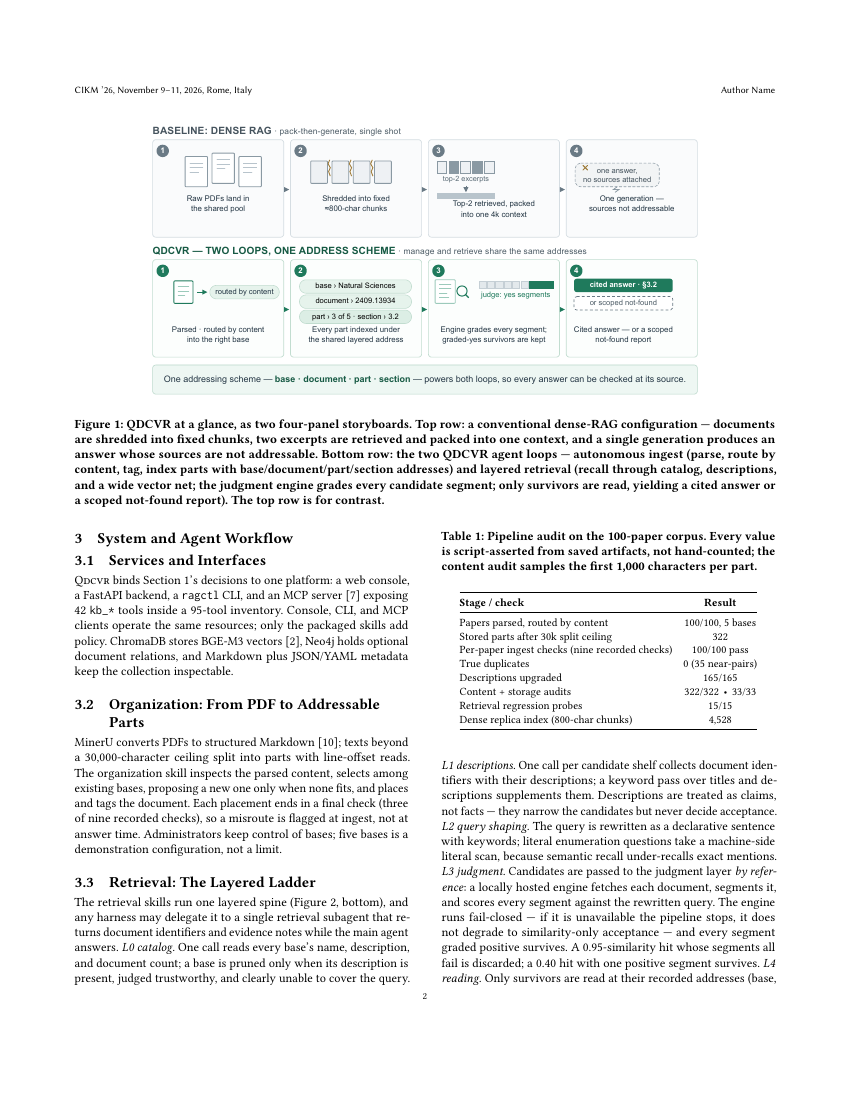
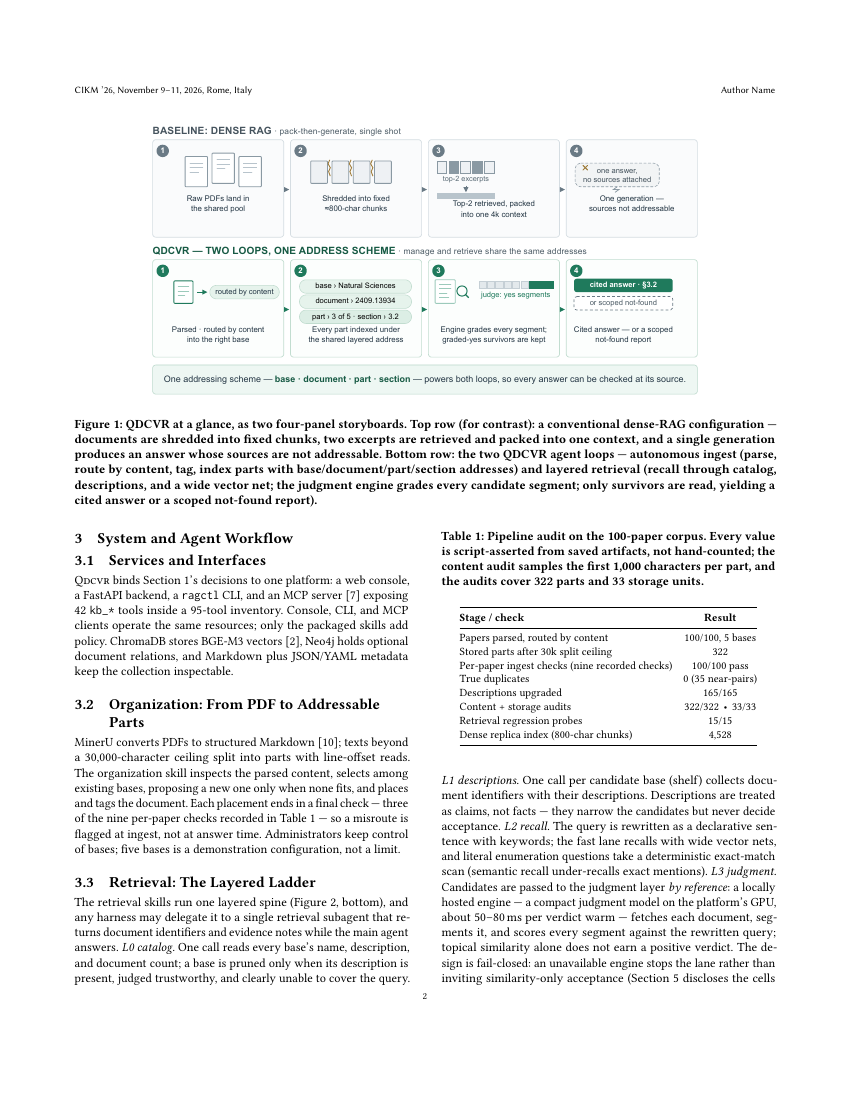
paper(demo): R3 fresh-panel revision - judgment engine concretized, contract honesty, editorial pass
- 3.3: judgment engine specified (compact local model on the platform GPU,
  ~50-80 ms per verdict warm; topical similarity alone does not earn a
  positive verdict); fail-closed softened from absolute to design intent
  with a pointer to the measured fallback cells
- 5: deviation disclosure - no engine call in 3 of 10 platform questions
  (confirmed by direct reads), read-fallbacks in 2 more (slow/unavailable
  engine); engine completed in the remaining 5
- demo: BQ04's second search corrected to keyword-metadata cross-check
  (kb_search, not the BM25 two-stage pass); "verbatim quotation" narrowed
  to the section title actually quoted; graded-path pointer re-anchored to
  panel 2 (BQ06)
- editorial round: intro/related-work repetition deduplicated; L2 renamed
  recall (reconciling the abstract's catalog/descriptions/recall triple
  with the L0-L5 rungs); shelf vs base terminology fixed; one-neutral-prompt
  contradiction resolved; ladder->librarian lane-name drift fixed; Table 1
  cited from its own section, 33/33 explained; abstract "with 1" fragment
  fixed; fig captions trimmed (stale bottom-strip reference removed,
  panel-2 bare-agent omission explained)
- layout: body (through Conclusion) still ends on page 4; references +
  GenAI disclosure on page 5 (5 pages total); 0 overfull, 0 undefined
- visual judge 5/5 pass on the final render

Changed region(s): [[0.52, 0.4945, 0.9176, 0.8964], [0.0918, 0.3709, 0.9176, 0.4636], [0.0918, 0.7109, 0.4894, 0.7727]]

diff --git a/paper_demo/tex/sec4_eval.tex b/paper_demo/tex/sec4_eval.tex
@@ -1,4 +1,4 @@
-% sec4_eval.tex — 2026-09-30 rewrite; compacted 2026-10-01.
+% sec4_eval.tex — 2026-09-30 rewrite; compacted 2026-10-01; R3 honesty fixes.
 % (1) monitored three-mode rerun on the current contract (run
 %     benchmark-suite/results/runs/run-20260930T150453Z-3ec2174; graded by
 %     scripts/107_exp_grade.py, audited by experiments/audit_paper_numbers.py);
@@ -7,55 +7,57 @@
 \label{sec:eval}
 
 \textbf{Setup.}
-The platform's own ingest loop built the corpus, so records exist for
-every stage (Table~\ref{tab:pipeline}). Ten fixed questions
+The ingest loop built the corpus, leaving records for every stage
+(Table~\ref{tab:pipeline}). Ten fixed questions
 (BQ01--BQ10), each answerable only from its
-designated paper, ran through three modes differing only in evidence
-route, permissions, and prompt framing (one harness, model, and neutral
-prompt): the platform answers via its fast lane over the kb\_* tools
-(Section~\ref{sec:ladder}); the bare agent is the same model with file
-tools over the exported papers; dense retrieval answers through a
-single vector-search tool over the 4{,}528-chunk replica
-(Table~\ref{tab:pipeline}).
-Metrics: \emph{grounded} (the trace cites the designated paper, strict
-arXiv-id); \emph{keyword-verified} ($\ge$60\% of fixed gold key
-facts at word boundaries); \emph{citations} (part/section/table
-markers in saved answers).
+designated paper, ran through three modes sharing one harness, one
+model, and one neutral prompt template, and differing only in the
+retrieval affordance and permissions: the platform answers through the
+full kb\_* read surface (Section~\ref{sec:ladder}); the bare agent is
+the same model with file tools over the exported papers; dense retrieval
+answers through a single vector-search tool over the 4{,}528-chunk
+replica (Table~\ref{tab:pipeline}).
+Metrics: \emph{grounded} (strict arXiv-id citation of the designated
+paper), \emph{keyword-verified} ($\ge$60\% of fixed gold key facts at
+word boundaries), \emph{cited} (part/section/table markers present).
 
 \textbf{Findings.}
 The platform grounds \NUMgroundedA/10 designated-paper answers and
 keyword-verifies \NUMkwA/10 --- a clean sweep under conservative grading;
-the bare agent grounds \NUMgroundedB/10 yet verifies \NUMkwB/10; dense
-retrieval grounds \NUMgroundedC/10 and verifies \NUMkwC/10 (both dense
-grounding misses were tool-availability aborts). Citations naming
-part, section, or table reach
+the bare agent grounds \NUMgroundedB/10 yet its verification rate trails
+(\NUMkwB/10); dense retrieval grounds \NUMgroundedC/10 and verifies
+\NUMkwC/10 (both dense grounding misses were tool-availability aborts).
+Citations naming part, section, or table reach
 \NUMciteA/10 versus \NUMciteB{} (bare) and \NUMciteC{} (dense)
 (Figure~\ref{fig:threeway}). The bare agent always locates the designated
-paper, yet its verification trails and its answers name files where the
-platform names checkable addresses: locating, synthesizing, and citing
-are different skills --- the split is this demo's design difference.
+paper, yet its answers name files where the platform names checkable
+addresses: locating, synthesizing, and citing are different skills ---
+the split this demo exists to show. We also record
+deviations: no engine call in three of ten questions (confirmed by
+direct reads), read-fallbacks after slow or unavailable engines in two
+more; the engine completed in the remaining five.
 
 \textbf{Honest failure and stability.}
-In a 27-run stability suite (found / not-covered / out-of-corpus tasks
---- attention, seismic-wave classification, pickle production ---
-$\times$ fast, ladder, and fusion lanes $\times$ three rounds) on the
-live multi-base instance, no run fabricated: the found task produced the
-correct attention formula in 9/9 runs; the not-covering task answered 9/9
-that the library holds no such content; the out-of-corpus task refused
-9/9, the librarian lane stopping at the catalog layer. Session-trace
-replay confirms 27/27 lane-contract compliance, with median wall-clock
-34--76\,s across cells
---- and three scripted out-of-corpus questions against the audited
-instance all receive scoped not-found reports (Section~\ref{sec:demo}
-shows one).
+In a 27-run stability suite --- three task types (answerable: an
+attention formula; not-covered: seismic-wave classification;
+out-of-corpus: a pickle request) $\times$ fast, librarian,
+and fusion lanes $\times$ three rounds --- on the live multi-base
+instance: the answerable task produced the correct attention formula in
+9/9 runs, the not-covered task answered 9/9 that the library holds no
+such content, and the out-of-corpus task refused 9/9 (the librarian
+lane stopping at the catalog layer). Session-trace replay confirms
+27/27 lane-contract compliance, with per-cell median wall-clock
+spanning 34--76\,s; three scripted out-of-corpus probes against the
+audited instance all return scoped not-found reports
+(Section~\ref{sec:demo} shows one).
 
 \textbf{Costs and limitations.}
-The platform is slowest (\NUMlatA{} per question versus
-\NUMlatB/{}\NUMlatC{} bare/dense) --- the gap buys multi-step reading
-and graded judgment --- but not costliest: \NUMcostA{} per question,
-about the bare agent's \NUMcostB{} and twice dense retrieval's
-\NUMcostC. Grading is conservative: word-boundary matching scores the
-bare agent's plural ``cathodes'' (BQ08) at zero. Two platform cells
-re-ran once after a harness timeout. Correctness calls are the authors'
-trace readings; cache state was uncontrolled; the suite's $\pm$35\,s
-variance sits in the answer-generation window.
+The platform is the slowest mode (\NUMlatA{} per question versus
+\NUMlatB{} bare and \NUMlatC{} dense), but the latency buys multi-step
+reading and graded judgment --- and it is not the costliest:
+\NUMcostA{} per question, about the bare agent's \NUMcostB{} and twice
+dense retrieval's \NUMcostC. Grading is conservative: word-boundary
+matching zeroes the bare agent's plural ``cathodes'' (BQ08). Two
+platform cells re-ran once after a harness timeout; correctness calls
+are the authors' trace readings, cache state was uncontrolled, and the
+suite's $\pm$35\,s variance sits in the answer-generation window.

diff --git a/paper_demo/tex/sec2_system.tex b/paper_demo/tex/sec2_system.tex
@@ -19,9 +19,10 @@ MinerU converts PDFs to structured Markdown~\cite{mineru}; texts
 beyond a 30,000-character ceiling split into parts with line-offset
 reads. The organization skill inspects the parsed
 content, selects among existing bases, proposing a new one only when
-none fits, and places and tags the document. Each placement ends in a final check (three of nine
-recorded checks), so a misroute is flagged at ingest, not at answer
-time. Administrators keep
+none fits, and places and tags the document. Each placement ends in a
+final check --- three of the nine per-paper checks recorded in
+Table~\ref{tab:pipeline} --- so a misroute is flagged at ingest, not at
+answer time. Administrators keep
 control of bases; five bases is a demonstration configuration, not a
 limit.
 
@@ -30,7 +31,8 @@ limit.
 \begin{table}[t]
 \caption{Pipeline audit on the 100-paper corpus. Every value is
 script-asserted from saved artifacts, not hand-counted; the content audit
-samples the first 1{,}000 characters per part.}
+samples the first 1{,}000 characters per part, and the audits cover 322
+parts and 33 storage units.}
 \label{tab:pipeline}
 \small
 \setlength{\tabcolsep}{4pt}
@@ -59,19 +61,23 @@ answers.
 \emph{L0 catalog.} One call reads every base's name, description, and
 document count; a base is pruned only when its description is present,
 judged trustworthy, and clearly unable to cover the query.
-\emph{L1 descriptions.} One call per candidate shelf collects document
-identifiers with their descriptions; a keyword pass over titles and
-descriptions supplements them. Descriptions are treated as claims, not
-facts --- they narrow the candidates but never decide acceptance.
-\emph{L2 query shaping.} The query is rewritten as a declarative
-sentence with keywords; literal enumeration questions take a machine-side
-literal scan, because semantic recall under-recalls exact mentions.
+\emph{L1 descriptions.} One call per candidate base (shelf) collects
+document identifiers with their descriptions. Descriptions are treated
+as claims, not facts --- they narrow the candidates but never decide
+acceptance.
+\emph{L2 recall.} The query is rewritten as a declarative sentence with
+keywords; the fast lane recalls with wide vector nets, and literal
+enumeration questions take a deterministic exact-match scan (semantic
+recall under-recalls exact mentions).
 \emph{L3 judgment.} Candidates are passed to the judgment layer \emph{by
-reference}: a locally hosted engine fetches each document, segments it,
-and scores every segment against the rewritten query. The engine runs
-fail-closed --- if it is unavailable the pipeline stops, it does not
-degrade to similarity-only acceptance --- and every segment graded
-positive survives. A
+reference}: a locally hosted engine --- a compact judgment model on the
+platform's GPU, about 50--80\,ms per verdict warm --- fetches
+each document, segments it, and scores every segment against the
+rewritten query; topical similarity alone does not earn a positive
+verdict. The design is fail-closed: an unavailable engine stops the lane
+rather than inviting similarity-only acceptance
+(Section~\ref{sec:eval} discloses the cells that fell back to
+confirming reads), and every positive segment survives. A
 0.95-similarity hit whose segments all fail is discarded; a 0.40 hit with
 one positive segment survives.
 \emph{L4 reading.} Only survivors are read at their recorded addresses
@@ -90,9 +96,8 @@ The \emph{fast lane} rewrites the query, casts a wide vector net (high
 $k$, balanced across bases, snippets only), cross-checks the top
 candidates with a second, BM25-style pass~\cite{bm25}, and feeds the
 deduplicated candidates to the same judgment layer --- ranking proposes,
-the engine still disposes; when cross-check reads confirm a candidate
-at its recorded address, the lane answers directly. The \emph{librarian lane} is the ladder above
-with no vector calls, for unknown shelves or complete-recall questions.
+the engine still disposes. The \emph{librarian lane} is the ladder above
+with no vector calls, for unknown bases or complete-recall questions.
 The \emph{fusion lane} runs both concurrently and merges on normalized
 (base, document) identity. Judgment is by reference, so document text
 stays server-side and the context receives one merged evidence pack.

diff --git a/paper_demo/tex/main.tex b/paper_demo/tex/main.tex
@@ -66,16 +66,16 @@
 \begin{figure*}[t]
 \centering
 \includegraphics[width=0.80\textwidth]{../figures/submission-20260922/fig1-core.pdf}
-\caption{QDCVR at a glance, as two four-panel storyboards. Top row: a
-conventional dense-RAG configuration --- documents are shredded into fixed
-chunks, two excerpts are retrieved and packed into one context, and a single
-generation produces an answer whose sources are not addressable. Bottom
-row: the two QDCVR agent loops --- autonomous ingest (parse, route by
-content, tag, index parts with base/document/part/section addresses) and
-layered retrieval (recall through catalog, descriptions, and a wide
-vector net; the judgment engine grades every candidate segment; only
-survivors are read, yielding a cited answer or a scoped not-found
-report). The top row is for contrast.}
+\caption{QDCVR at a glance, as two four-panel storyboards. Top row (for
+contrast): a conventional dense-RAG configuration --- documents are
+shredded into fixed chunks, two excerpts are retrieved and packed into
+one context, and a single generation produces an answer whose sources
+are not addressable. Bottom row: the two QDCVR agent loops --- autonomous
+ingest (parse, route by content, tag, index parts with
+base/document/part/section addresses) and layered retrieval (recall
+through catalog, descriptions, and a wide vector net; the judgment
+engine grades every candidate segment; only survivors are read, yielding
+a cited answer or a scoped not-found report).}
 \Description{Two storyboard rows of four numbered panels each. Top row
 (baseline): documents arrive in the shared pool; they are shredded into
 fixed 800-character chunks, with torn-evidence marks; two excerpts are
@@ -122,13 +122,14 @@ same 42 kb\_* tools run over vector, graph, and file storage.}
 % meets it in time for a page-4 top placement.
 \begin{figure*}[t]
 \centering
-\includegraphics[width=0.82\textwidth]{../figures/submission-20260920/fig3-answers-dual.pdf}
+\includegraphics[width=0.78\textwidth]{../figures/submission-20260920/fig3-answers-dual.pdf}
 \caption{Two questions from the 100-paper corpus under the monitored
 three-mode run (one harness, model, and neutral prompt; one run per
 mode; ellipses elide text): each column shows the saved timeline, a
 verbatim excerpt, and sources. Panel~1 (BQ04): all three modes answer
 --- A quotes the source at part~1 of~2, section~2; B names the file; C
-quotes the chunk copy. Panel~2 (BQ06): A has the judgment engine grade
+quotes the chunk copy. Panel~2 (BQ06; bare agent omitted --- its answer
+names a file with nothing quotable): A has the judgment engine grade
 candidate segments and returns a keyword-verified answer quoting the
 source; C reaches the same factor from chunk recall alone, with no
 grading step and no addresses.}
@@ -163,9 +164,9 @@ precision caveat; its source shows the chunk index with no grading step.}
 
 \input{sec4_eval}
 \input{sec5_conclusion}
-\input{sec4_backmatter}
 \bibliographystyle{ACM-Reference-Format}
 \bibliography{refs}
+\input{sec4_backmatter}
 \end{document}
 
 

diff --git a/paper_demo/tex/sec3_demo.tex b/paper_demo/tex/sec3_demo.tex
@@ -19,12 +19,13 @@ Scenario one places a PDF: the trace records the parse, proposed base,
 tags, and indexing checks.
 Scenario two asks which three ontologies subdivide the Gene Ontology. In
 the saved trace (BQ04; Section~\ref{sec:eval}), the fast lane recalls
-the primer with a vector search plus a BM25-style cross-check, reads the
-part at its line offset, and the agent answers with a verbatim quotation
-whose source block names base, document, part, and section (``2.~What is
-the Gene Ontology?''). The cross-check reads confirmed this candidate directly; the graded
-path appears in Figure~\ref{fig:threeway}, panel~2. The cited part opens in the
-console at its line offset.
+the primer with a vector search plus a keyword-metadata cross-check,
+reads the part at its line offset, and the agent answers with the
+section title quoted verbatim and a source block naming base, document,
+part, and section (``2.~What is the Gene Ontology?''). The cross-check
+reads confirmed this candidate directly (the graded path is panel~2 of
+Figure~\ref{fig:threeway}); the cited part opens in the console at its
+line offset.
 
 \paragraph{3. Examine a failure report.}
 Next, the attendee asks for training epochs in the fictitious paper
@@ -35,5 +36,5 @@ none the paper), vector search (top similarity 0.52), metadata search
 (twelve weak title-token matches), and a judgment-engine call with
 nothing to adjudicate. BERT fine-tuning recipes appear among the
 near-misses and are not substituted; the remedy offered is re-search by
-exact identifier, and nothing is speculated.
+exact identifier, and the report speculates nothing.
 

diff --git a/paper_demo/tex/sec1_related.tex b/paper_demo/tex/sec1_related.tex
@@ -4,9 +4,9 @@
 \section{Related Work}
 \label{sec:related}
 
-\textbf{Packed-context and self-assessing RAG.} Dense retrievers feed top-$k$ chunks to the
-generator~\cite{rag-lewis}: provenance is lost at pack time and failed
-recall is invisible, whereas \sys{} keeps retrieval and reading as
+\textbf{Packed-context and self-assessing RAG.} Where packed-context
+pipelines lose provenance at pack time and fail
+silently~\cite{rag-lewis}, \sys{} keeps retrieval and reading as
 separate, recorded steps. Self-RAG trains
 reflection tokens~\cite{selfrag} and Corrective RAG scores retrieved
 documents with a lightweight task-trained evaluator~\cite{crag}; \sys{}'s
@@ -17,9 +17,10 @@ than degrading it.
 \textbf{Hierarchy, graphs, and abstention.} RAPTOR recurses summaries
 into a tree index~\cite{raptor}; DeepRead navigates document
 hierarchy~\cite{deepread}; GraphRAG derives community
-graphs~\cite{graphrag}. These structures serve retrieval, but the corpus
-remains given; in \sys{} the organization loop creates the hierarchy,
-and one identifier set carries placement, reads, and citations. \sys{}
+graphs~\cite{graphrag}. Those systems index a corpus someone else
+curated; here the organization loop creates the very hierarchy retrieval
+later walks, and one identifier set carries placement, reads, and
+citations. \sys{}
 also makes abstention structural --- a rung with no plausible candidate
 is a terminal, reportable state (measured in
 Section~\ref{sec:eval}) --- complementing generator-side calibration

diff --git a/paper_demo/tex/sec0_abstract.tex b/paper_demo/tex/sec0_abstract.tex
@@ -19,11 +19,12 @@ finds a plausible candidate, the search stops there and returns a scoped
 not-found report. The platform's ingest loop built and audited a
 100-paper, five-base instance. In a monitored three-mode run under one
 harness, model, and neutral
-prompt, the platform grounds \NUMgroundedA{} of 10 designated-paper
-answers, keyword-verifies \NUMkwA{} of 10 against fixed gold key facts,
-and cites part, section, or table in \NUMciteA; the bare agent grounds
-\NUMgroundedB{} but verifies \NUMkwB, and dense retrieval grounds
-\NUMgroundedC{} and verifies \NUMkwC{} with \NUMciteC. A 27-run
+prompt, the platform produces grounded answers for \NUMgroundedA{} of 10
+designated papers and keyword-verifies \NUMkwA{} of 10 against fixed
+gold key facts, citing part, section, or table in \NUMciteA; the bare
+agent grounds \NUMgroundedB{} but verifies \NUMkwB, and dense retrieval
+grounds \NUMgroundedC{} and verifies \NUMkwC, citing such a marker in
+only \NUMciteC. A 27-run
 three-lane stability suite shows consistent retrieval and honest
 abstention whenever the corpus does not cover a question. Attendees
 organize a document, inspect an answer's evidence, and examine a

diff --git a/paper_demo/tex/sec5_conclusion.tex b/paper_demo/tex/sec5_conclusion.tex
@@ -3,9 +3,9 @@
 \section{Conclusion}
 \label{sec:conclusion}
 
-\sys{} shows that one address space can carry organization and
-retrieval, with acceptance as a fail-closed engine judgment. The monitored run yields grounded, keyword-verified answers in ten of
-ten cases; the lanes stay consistent across 27 runs; abstention behaves
-as designed and every number re-derives from saved artifacts; future
-work adds graph navigation as a second route and richer use of recorded
-blind spots.
+\sys{} carries organization and retrieval through one address space,
+with acceptance as a fail-closed engine judgment. The monitored run
+yields grounded, keyword-verified answers in ten of ten cases; the
+lanes stay consistent across 27 runs; abstention behaves as designed;
+every number re-derives from saved
+artifacts.
